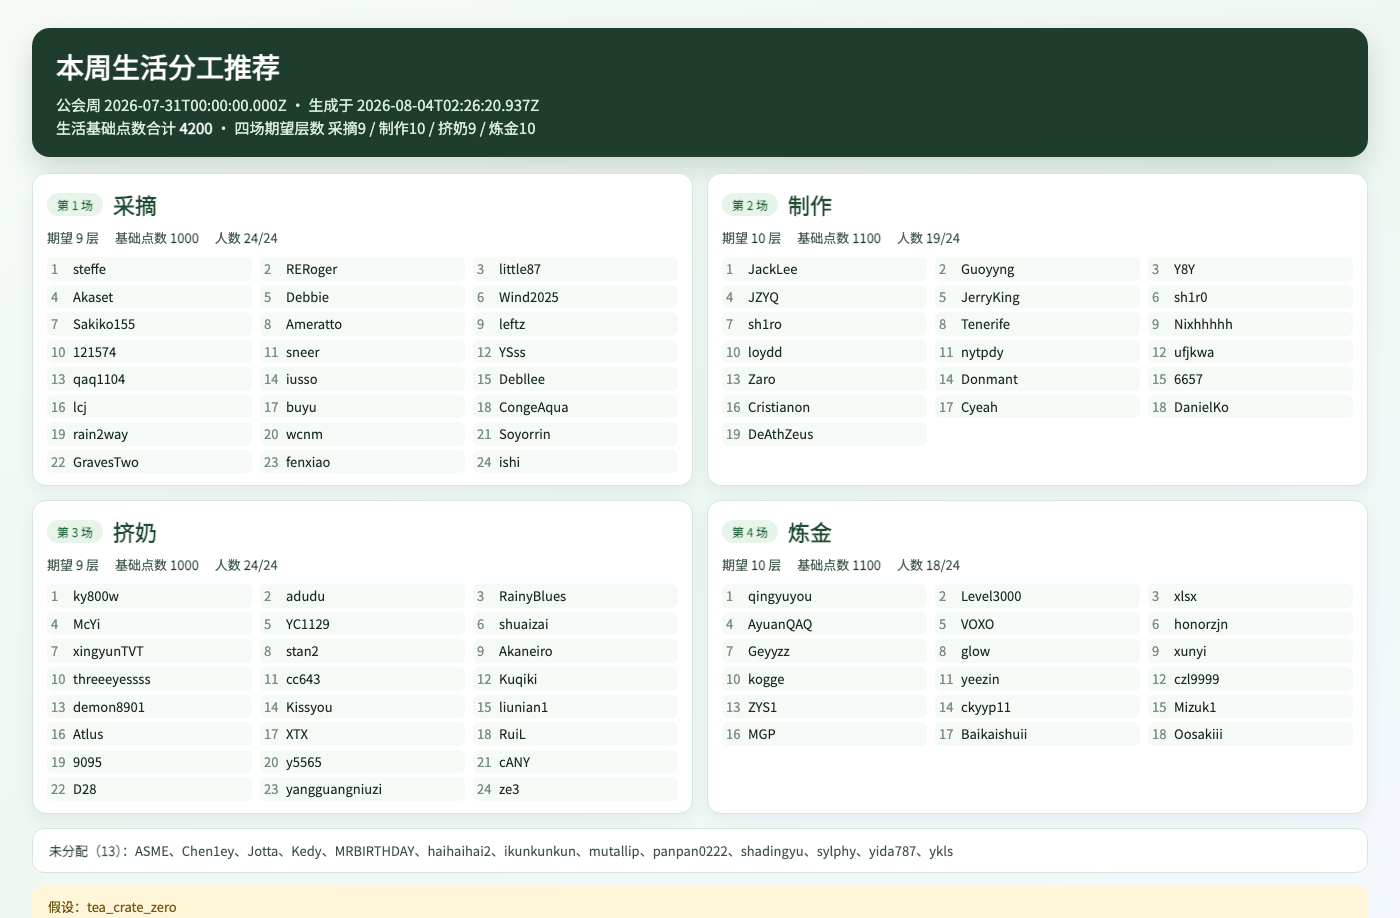
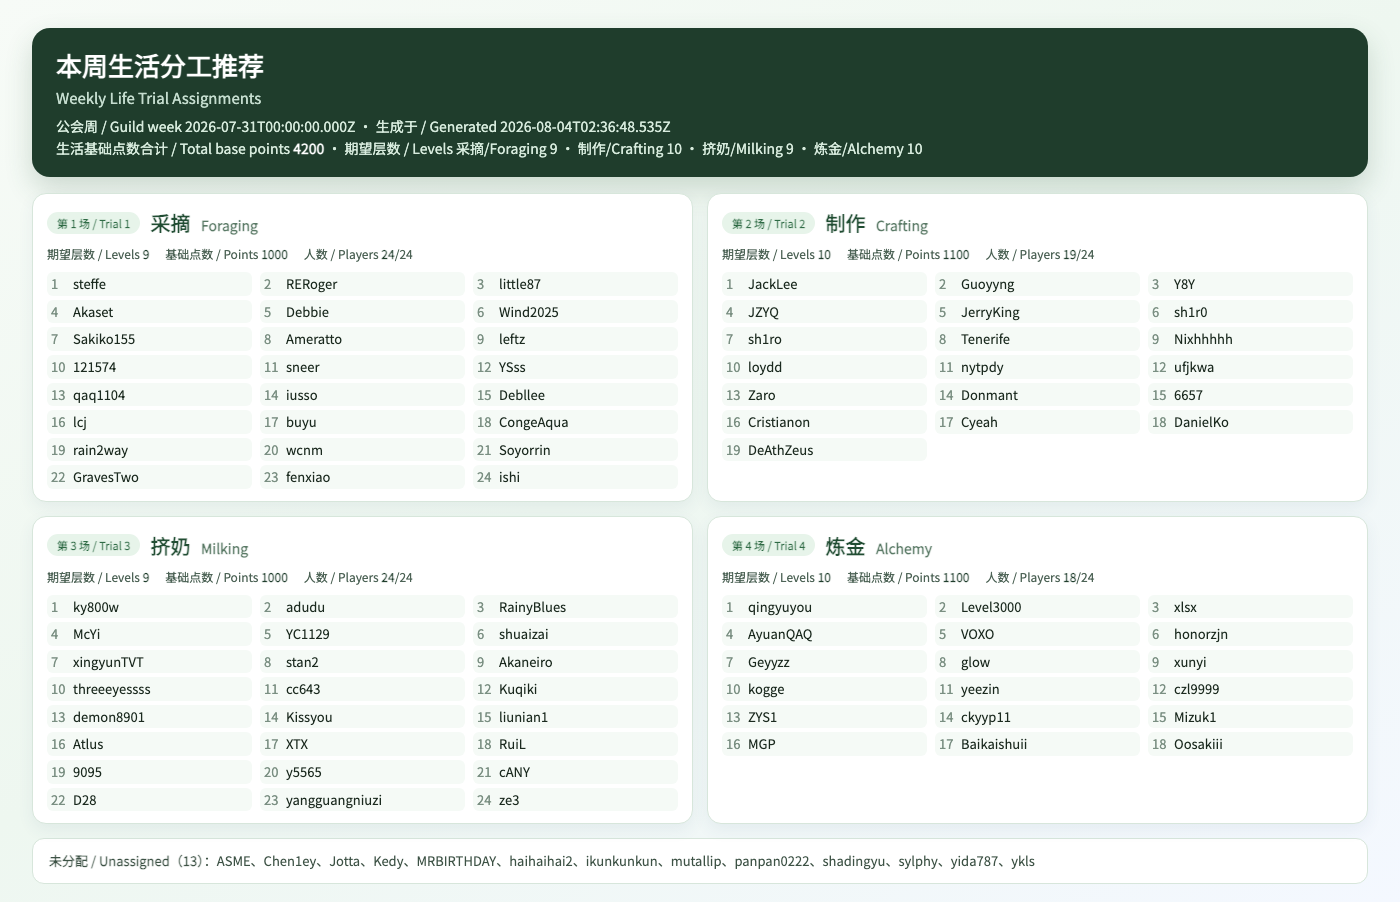
chore: refresh life assignment report (2026-07-31T00:00:00.000Z, 4200 pts)

Changed region(s): [[0.0, 0.0621, 0.9829, 1.0], [0.8293, 0.2794, 0.8907, 0.4967], [0.8293, 0.6519, 0.8907, 0.8381]]

diff --git a/reports/life-assignment/README.md b/reports/life-assignment/README.md
@@ -1,7 +1,7 @@
 # 本周生活分工
 
 - 公会周：`2026-07-31T00:00:00.000Z`
-- 生成时间：`2026-08-04T02:26:20.937Z`
+- 生成时间：`2026-08-04T02:36:48.535Z`
 - 基础点数合计：`4200`
 
 图片：https://raw.githubusercontent.com/xiahuaaaa/mwi-guild-trial-helper/main/reports/life-assignment/latest.png
